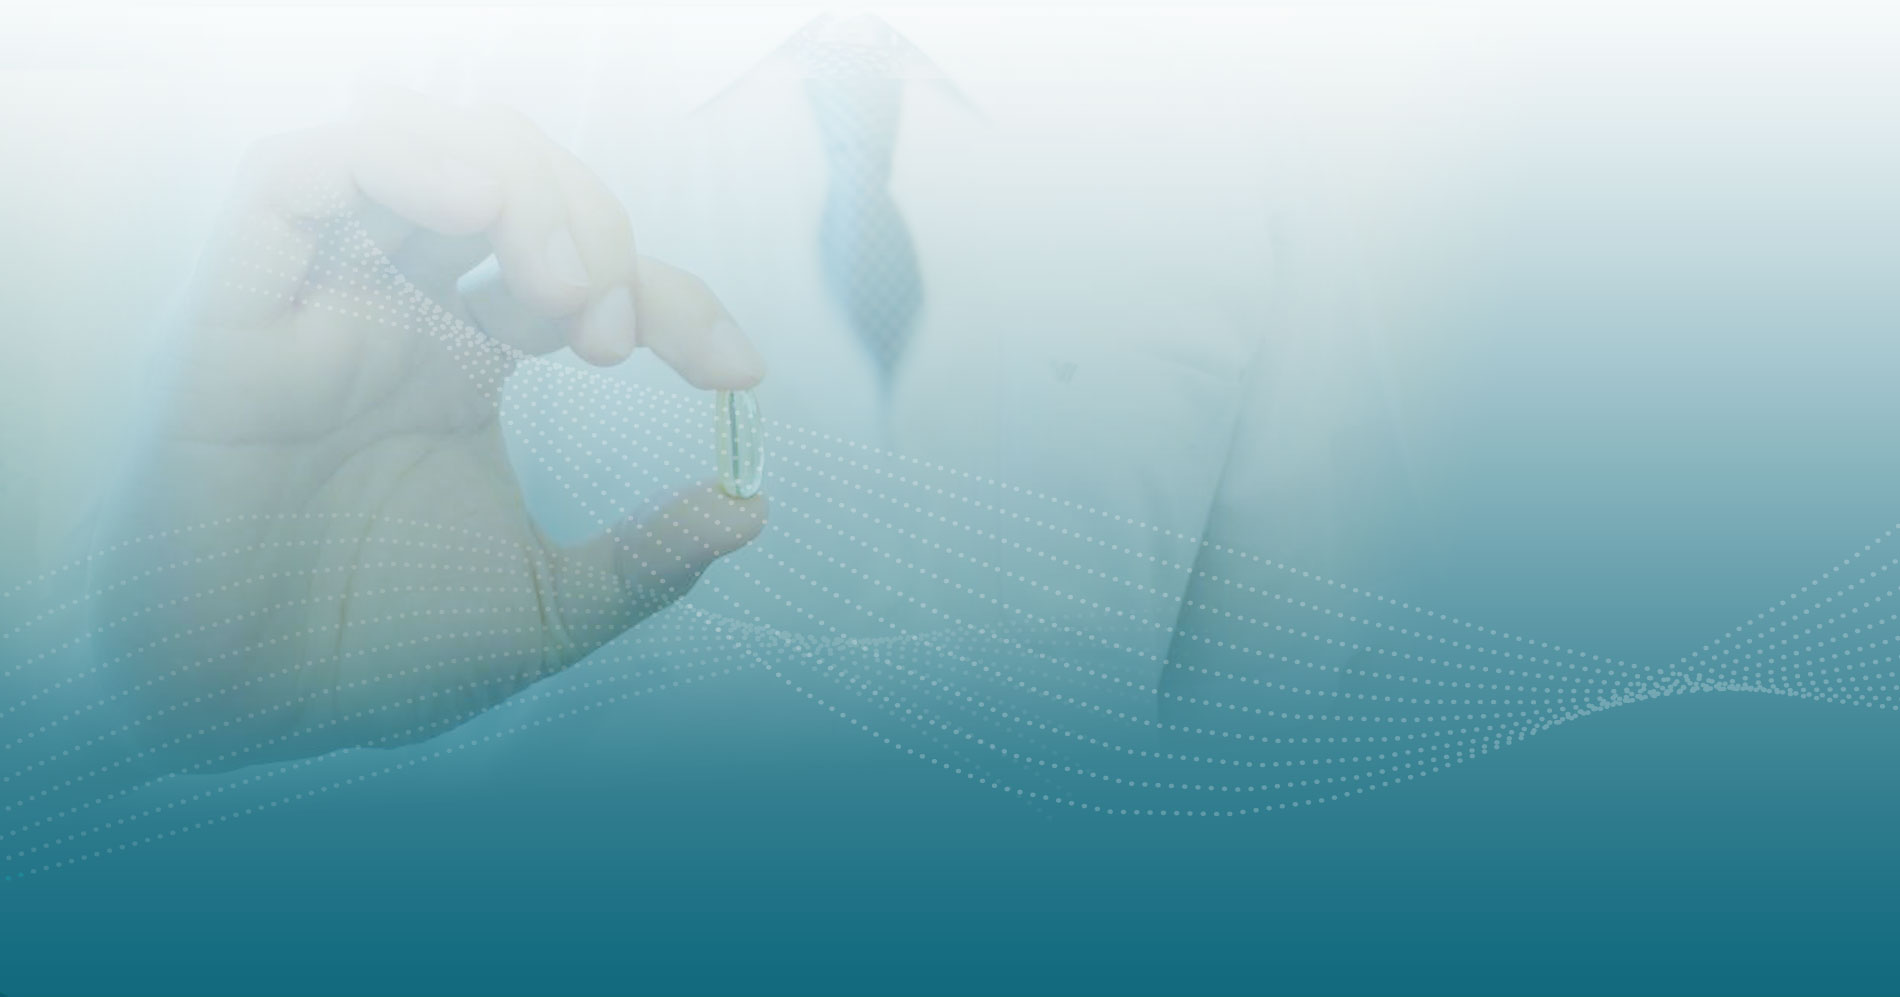
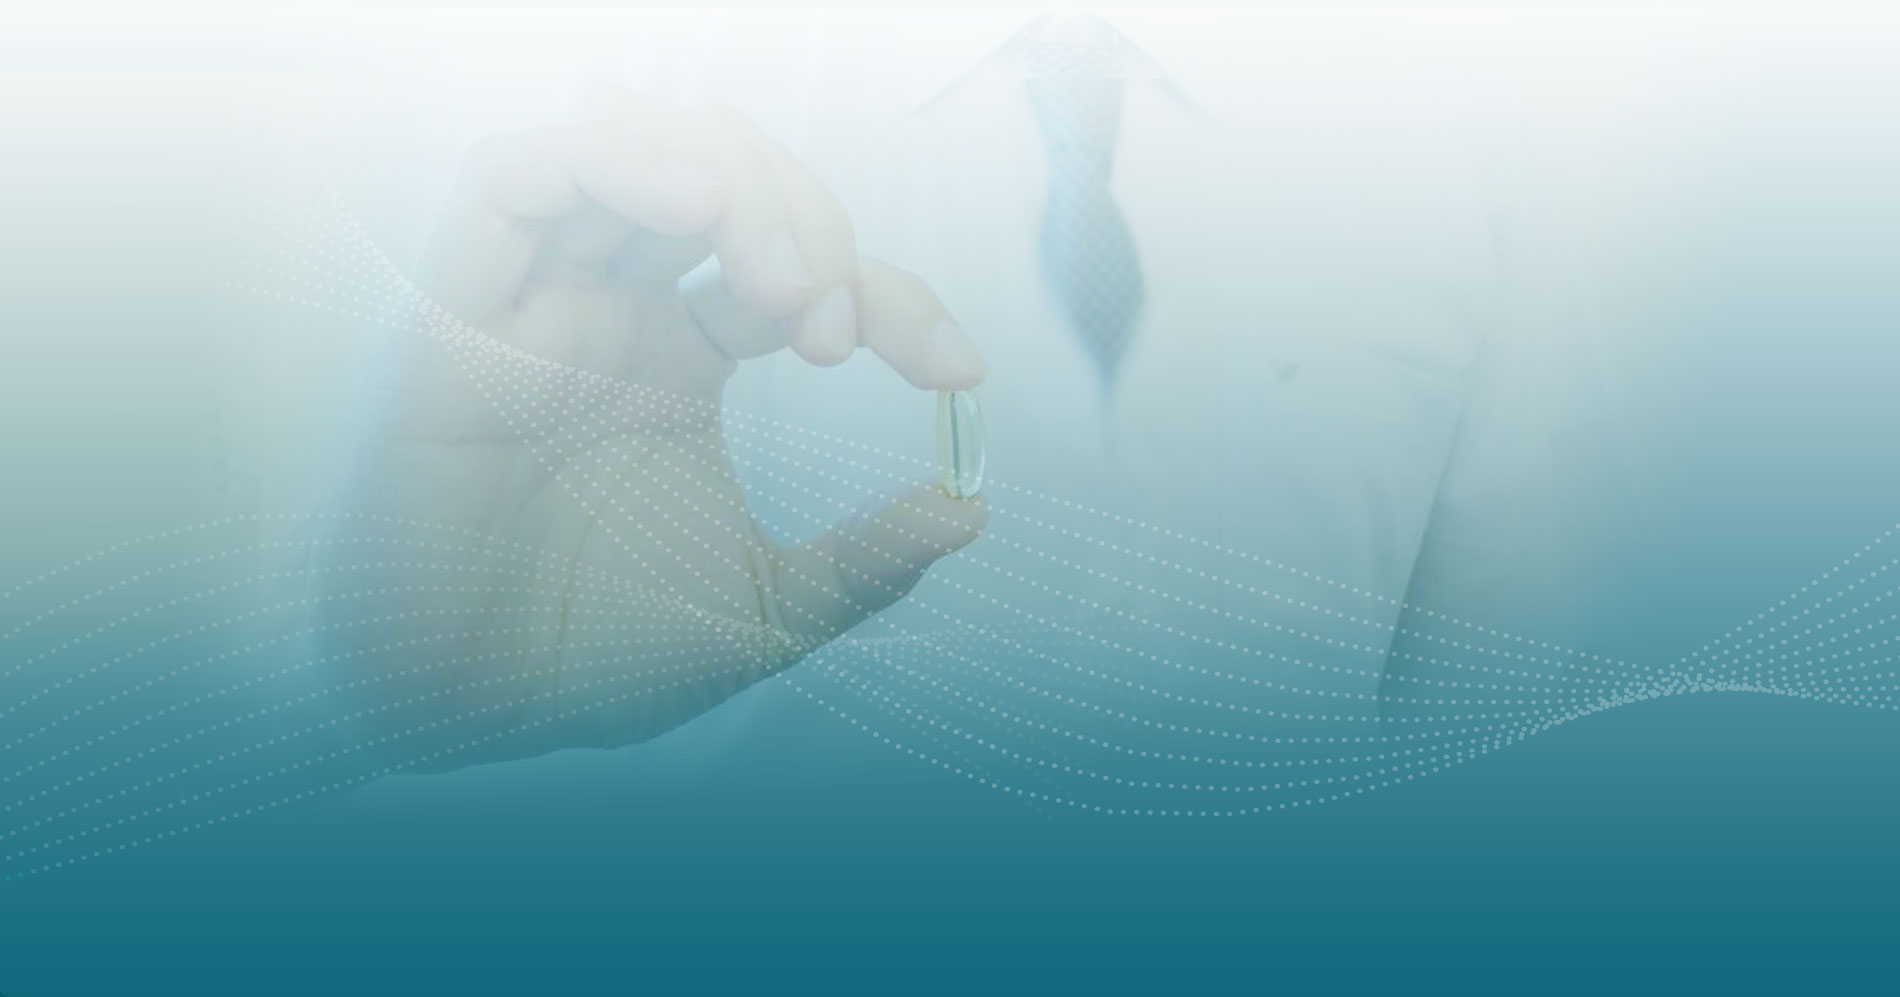
Updated Image.

diff --git a/development/src/static/css/sb-admin-2.css b/development/src/static/css/sb-admin-2.css
@@ -186,7 +186,7 @@ body {
 	padding-top: 0px;
 }
 
-body#page1{background-color:#11697d;background-image: url(../../img/header-bg.jpg); background-repeat: repeat-x;}
+body#page1{background-color:#11697d;background-image: url(../../img/header-bg.jpg); background-repeat: repeat-x; background-position:center center;}
 body#page2{background-color:#11697d; background-image: url(../../img/background_page.jpg); background-repeat: repeat-x;padding: 0px;}
 body#page3{background-color:#00f;}
 
